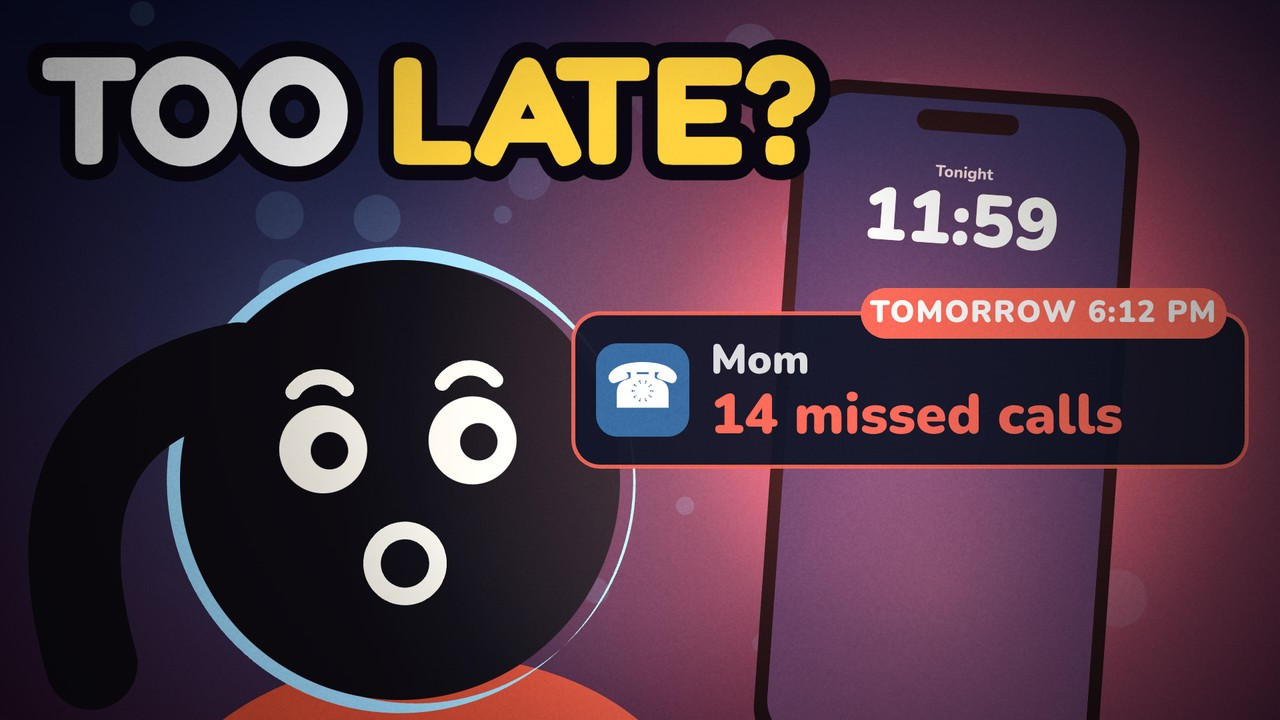
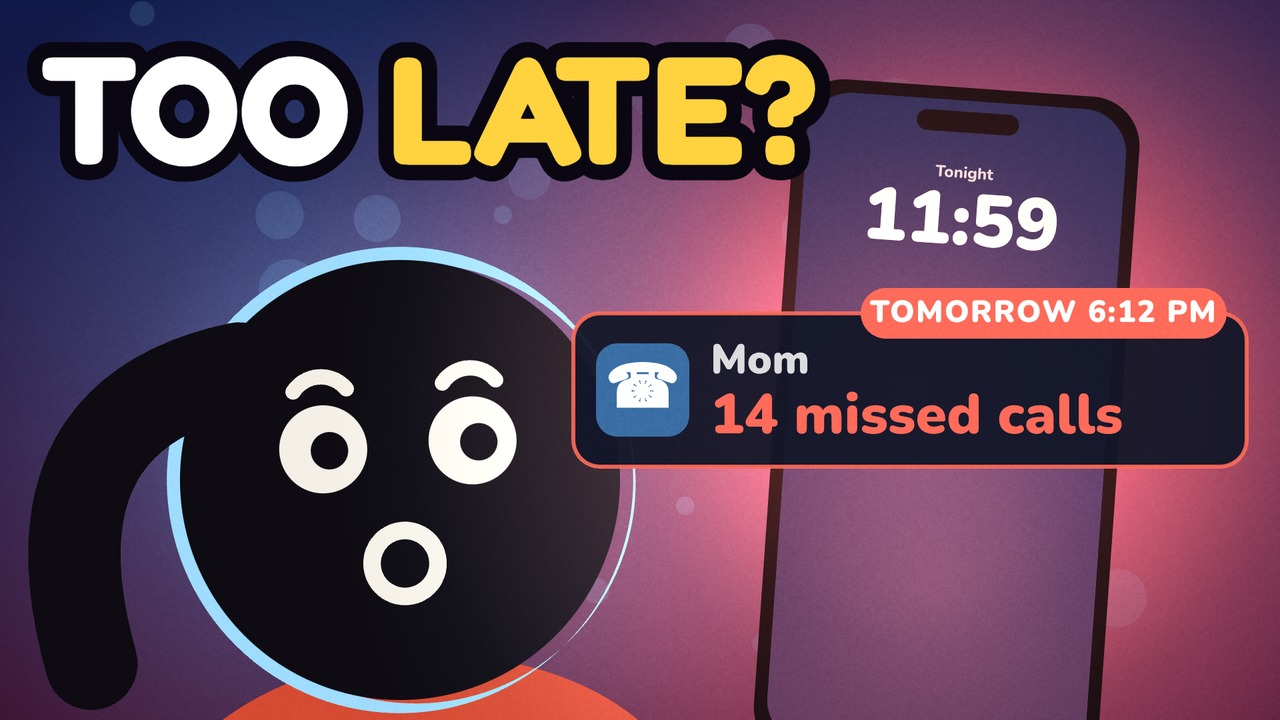
Thumbnail T4 #2 bản đăng: bỏ vignette, làm sáng nền bản A
Bản chính để đăng: projects/t4-02-thumb/thumbnails/T4_02_thumbnail_DANG.jpg
(1280x720, JPG, 169 KB). Chi tiết 14 cuộc gọi lỡ lúc 6:12 PM khớp kịch bản.

Claude-Session: https://claude.ai/code/session_016Fd7B2Q9EsQnZQF84oHgKX

diff --git a/aitrends-2d-studio/projects/t4-02-thumb/scenes/thumbs.js b/aitrends-2d-studio/projects/t4-02-thumb/scenes/thumbs.js
@@ -48,8 +48,8 @@ function bigNotif(g, x, y, w, o) {
 
 // A — the cost: Mom's missed calls, tomorrow. Shocked Maya, phone glow on her face.
 registerShot('thA', { draw(g) {
-  backdrop(g, { top: '#0c1030', bottom: '#2a0f2a', hot: '#ff3b3b', hx: 1450, hy: 560, hr: 950 });
-  glow(g, 560, 640, 700, '#8fd3ff', 0.35);
+  backdrop(g, { top: '#101a4a', bottom: '#3a1030', hot: '#ff3b3b', hx: 1450, hy: 560, hr: 1050 });
+  glow(g, 560, 640, 760, '#8fd3ff', 0.5);
   bigFace(g, 600, 720, 330, { outfit: MAYA, expr: 'shocked', look: [0.35, 0.1], rimColor: '#9fdcff', rimSide: 1, tilt: -0.06 });
   g.save(); g.translate(1420, 640); g.rotate(0.07); phone(g, 0, 0, 980, 0, { time: '11:59', date: 'Tonight', cards: [], glowA: 1.4 }); g.restore();
   bigNotif(g, 860, 470, 1010, { sender: 'Mom', msg: '14 missed calls', msgColor: '#ff6b5a', tag: 'TOMORROW 6:12 PM', icon: '☎' });
